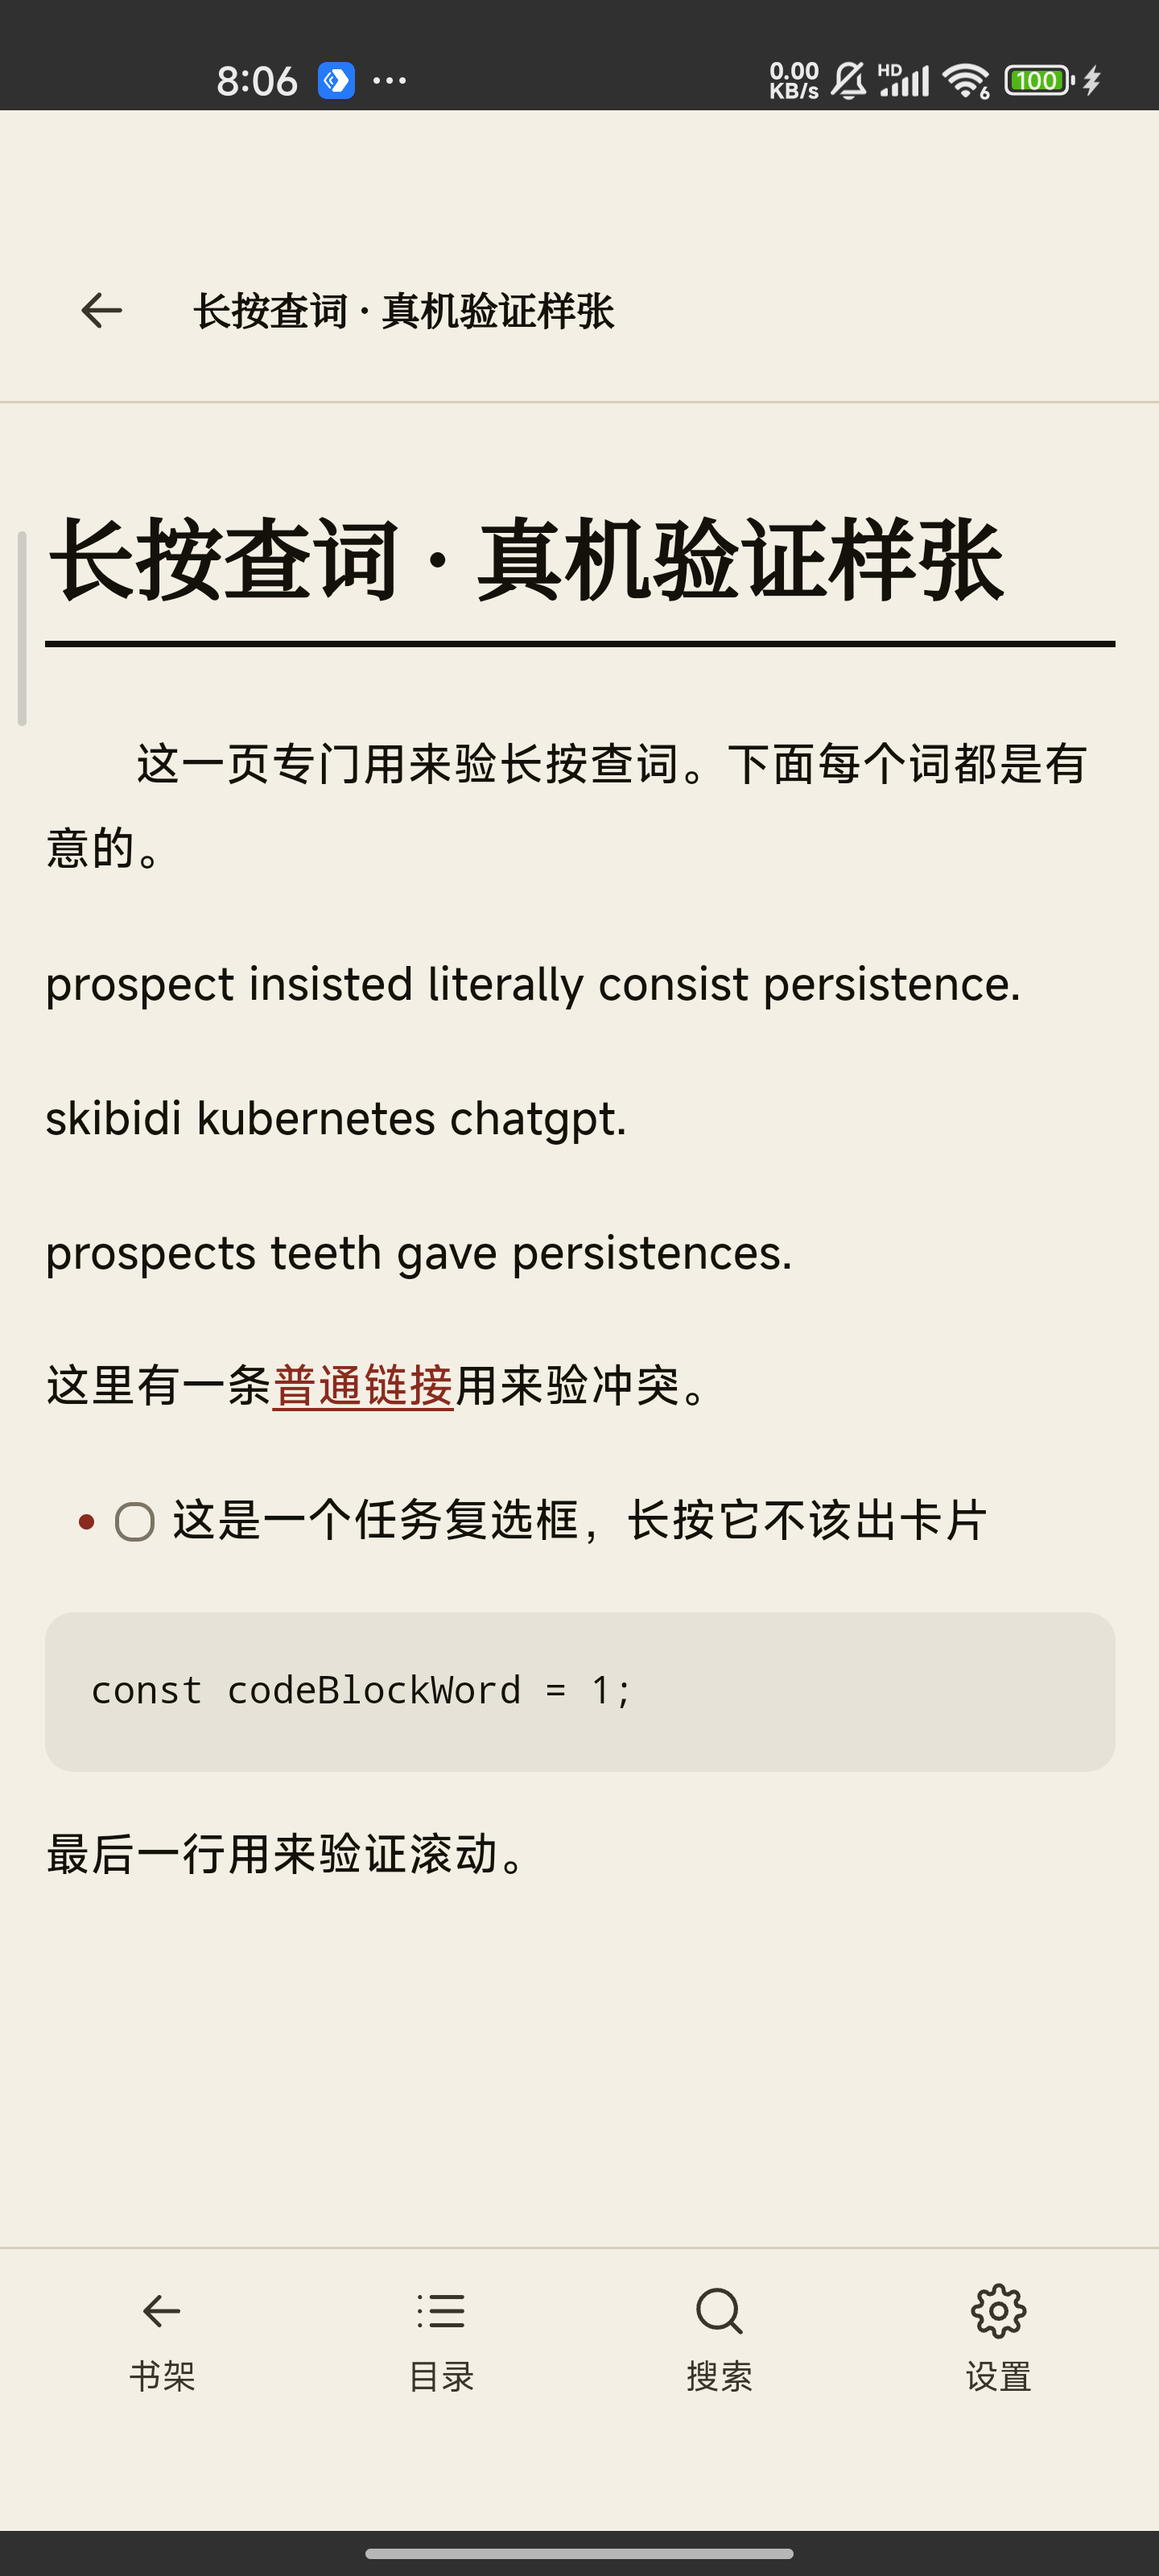
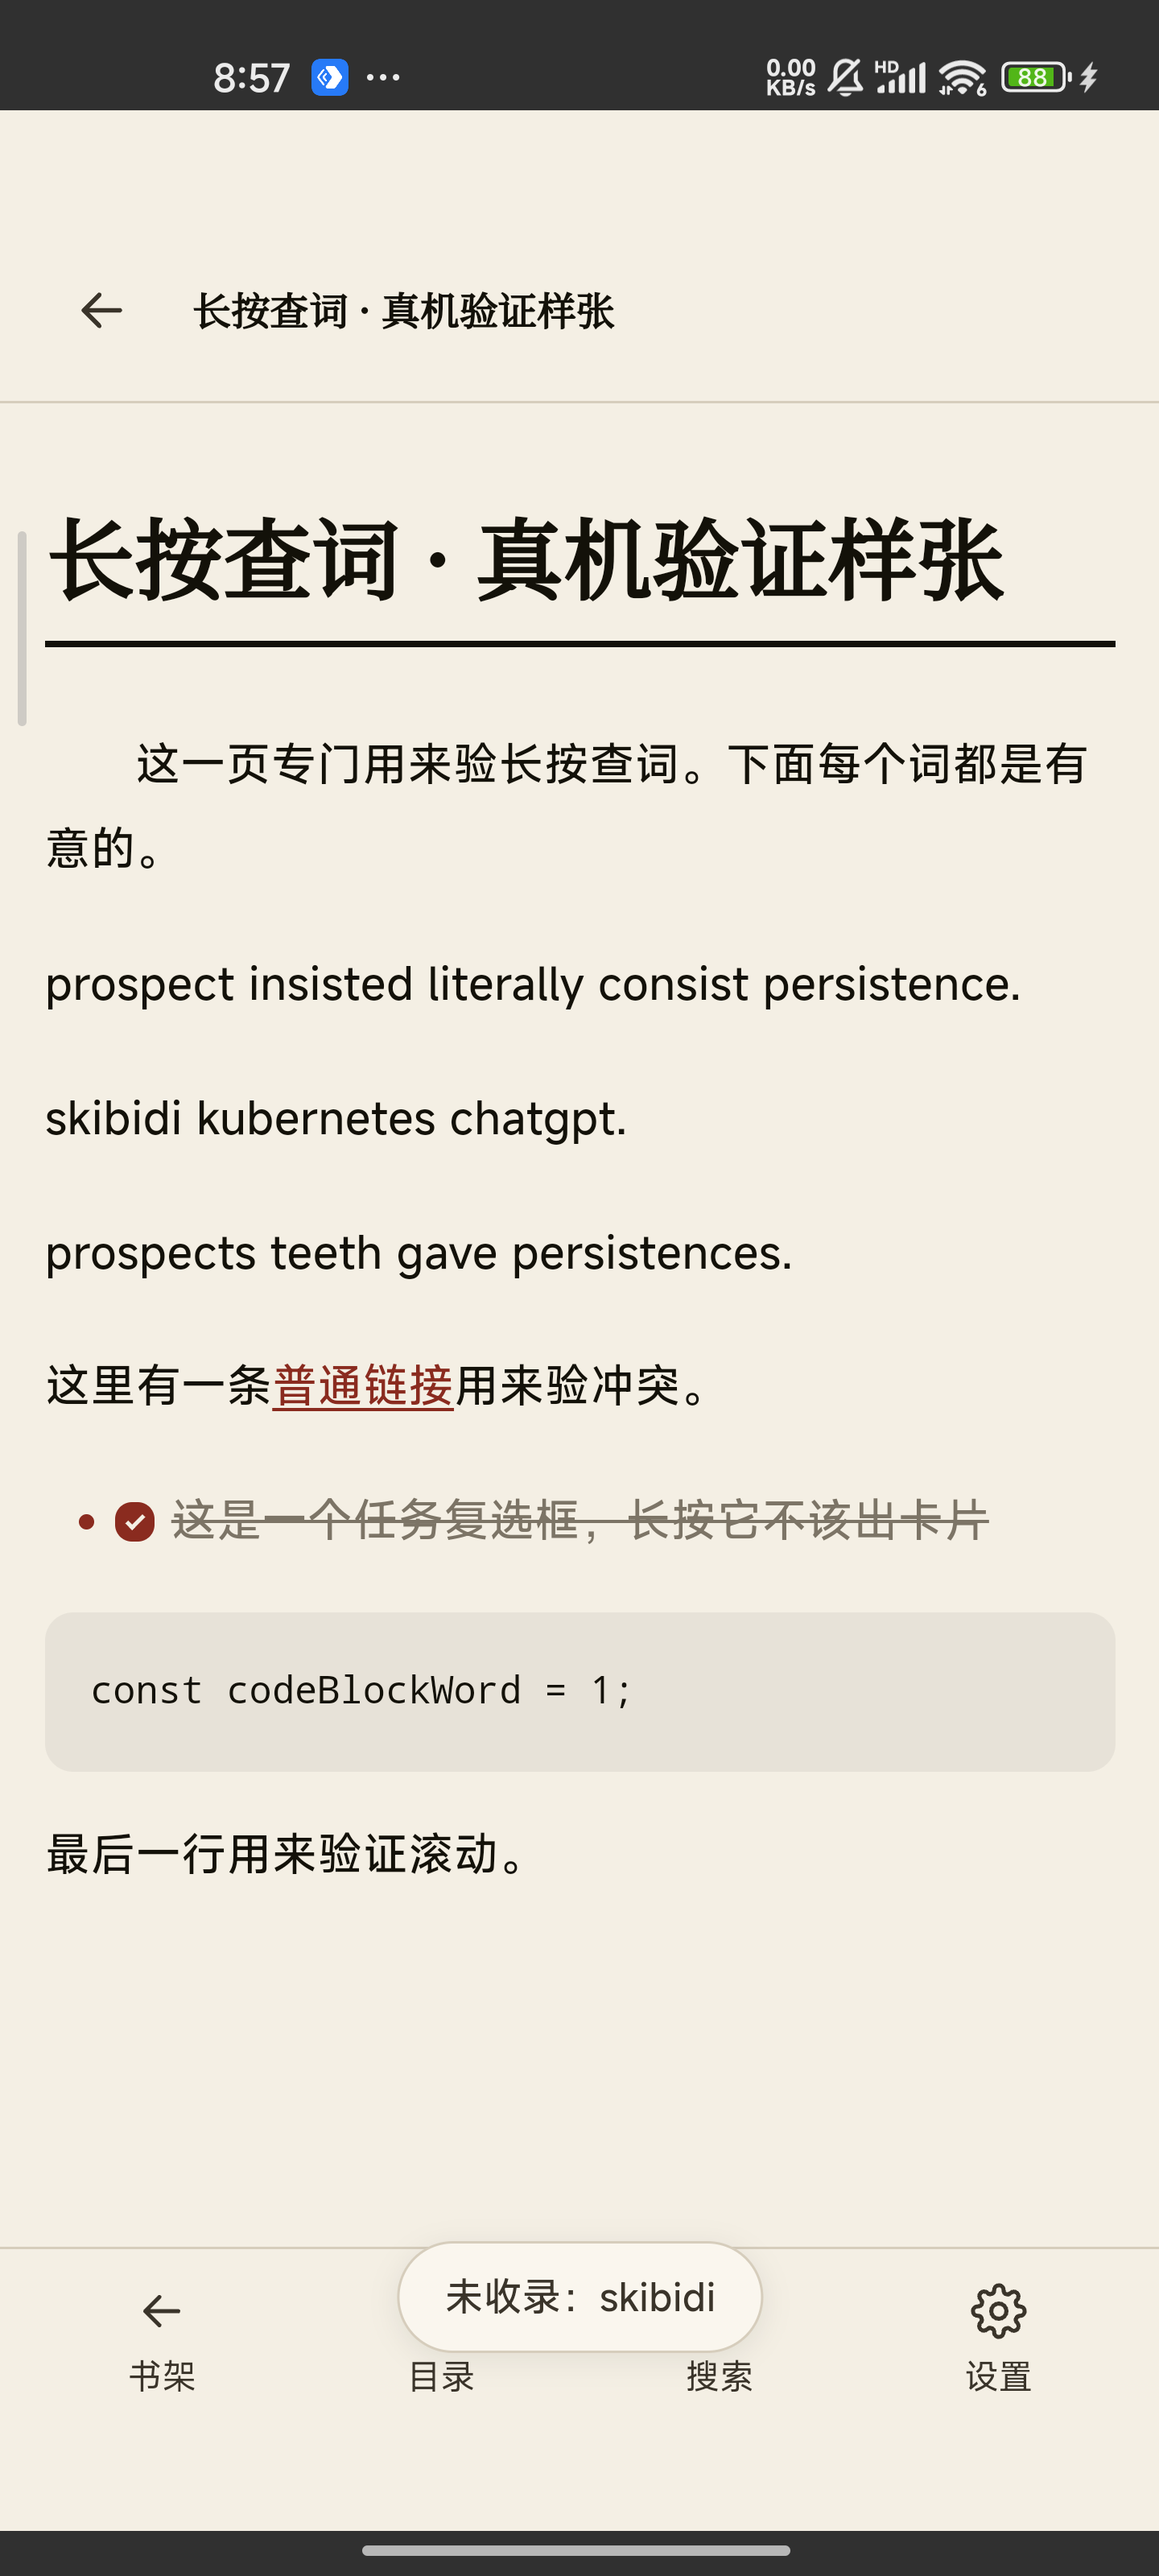
fix(M5): 重拍第 06 张——原图虽然断言过了，但提示已经消失
自己的截图逐张肉眼复核时发现：lookup-06-outofdict.png 断言（截图前 DOM 里
lookup-miss 文本 == 未收录：skibidi）确实通过，但图上看不到那行提示。
原因：shell screencap -p <设备文件> + adb pull 两步加起来超过了提示的 2 秒存活期，
断言在截图前，提示在截图时已经消失 —— 断言过 ≠ 画面对，这是我这边的验证方法漏洞。

改法：改用单次 exec-out screencap -p，从 PNG magic（89 50 4E 47）处切掉 stdout
前面的 [Warning] 多显示器文本（这也是第一批 12 张全废的根因）。单次约 300ms，
能落在 2 秒窗口内。重拍后图上可见「未收录：skibidi」，且截图后立即复查
lookup-miss 仍在（hintPresentRightAfterCapture: true），证明它是捕捉到提示之后才截的。

证据：artifacts/lookup/lookup-06-outofdict.png（303,515 B，图上可见提示）
      artifacts/lookup/shot-06-assertions.json（断言时刻文本 / 截图结果 / 截图后仍存在）

diff --git a/verification.md b/verification.md
@@ -17,7 +17,7 @@
 | 03 | `lookup-03-literally.png` | `lookup-word` == `literally` | ✅ |
 | 04 | `lookup-04-consist.png` | `lookup-word` == `consist` | ✅ |
 | 05 | `lookup-05-persistence.png` | `.lookup__line` ≥ 2（多行释义） | ✅ |
-| 06 | `lookup-06-outofdict.png` | `lookup-miss` 文本 == `未收录：skibidi` | ✅ |
+| 06 | `lookup-06-outofdict.png` | `lookup-miss` 文本 == `未收录：skibidi`；截图时提示仍在（`shot-06-assertions.json`） | ✅ |
 | 07 | `lookup-07-lemma.png` | `lookup-lemma-hint` == `按 persistence 释义` | ✅ |
 | 08 | `lookup-08-conflict-link.png` | 长按链接后无 `lookup-card` | ✅ |
 | 09 | `lookup-09-conflict-taskbox.png` | 长按复选框后无 `lookup-card`；随后点复选框仍能勾选（`data-task-checked` 0→1） | ✅ |
